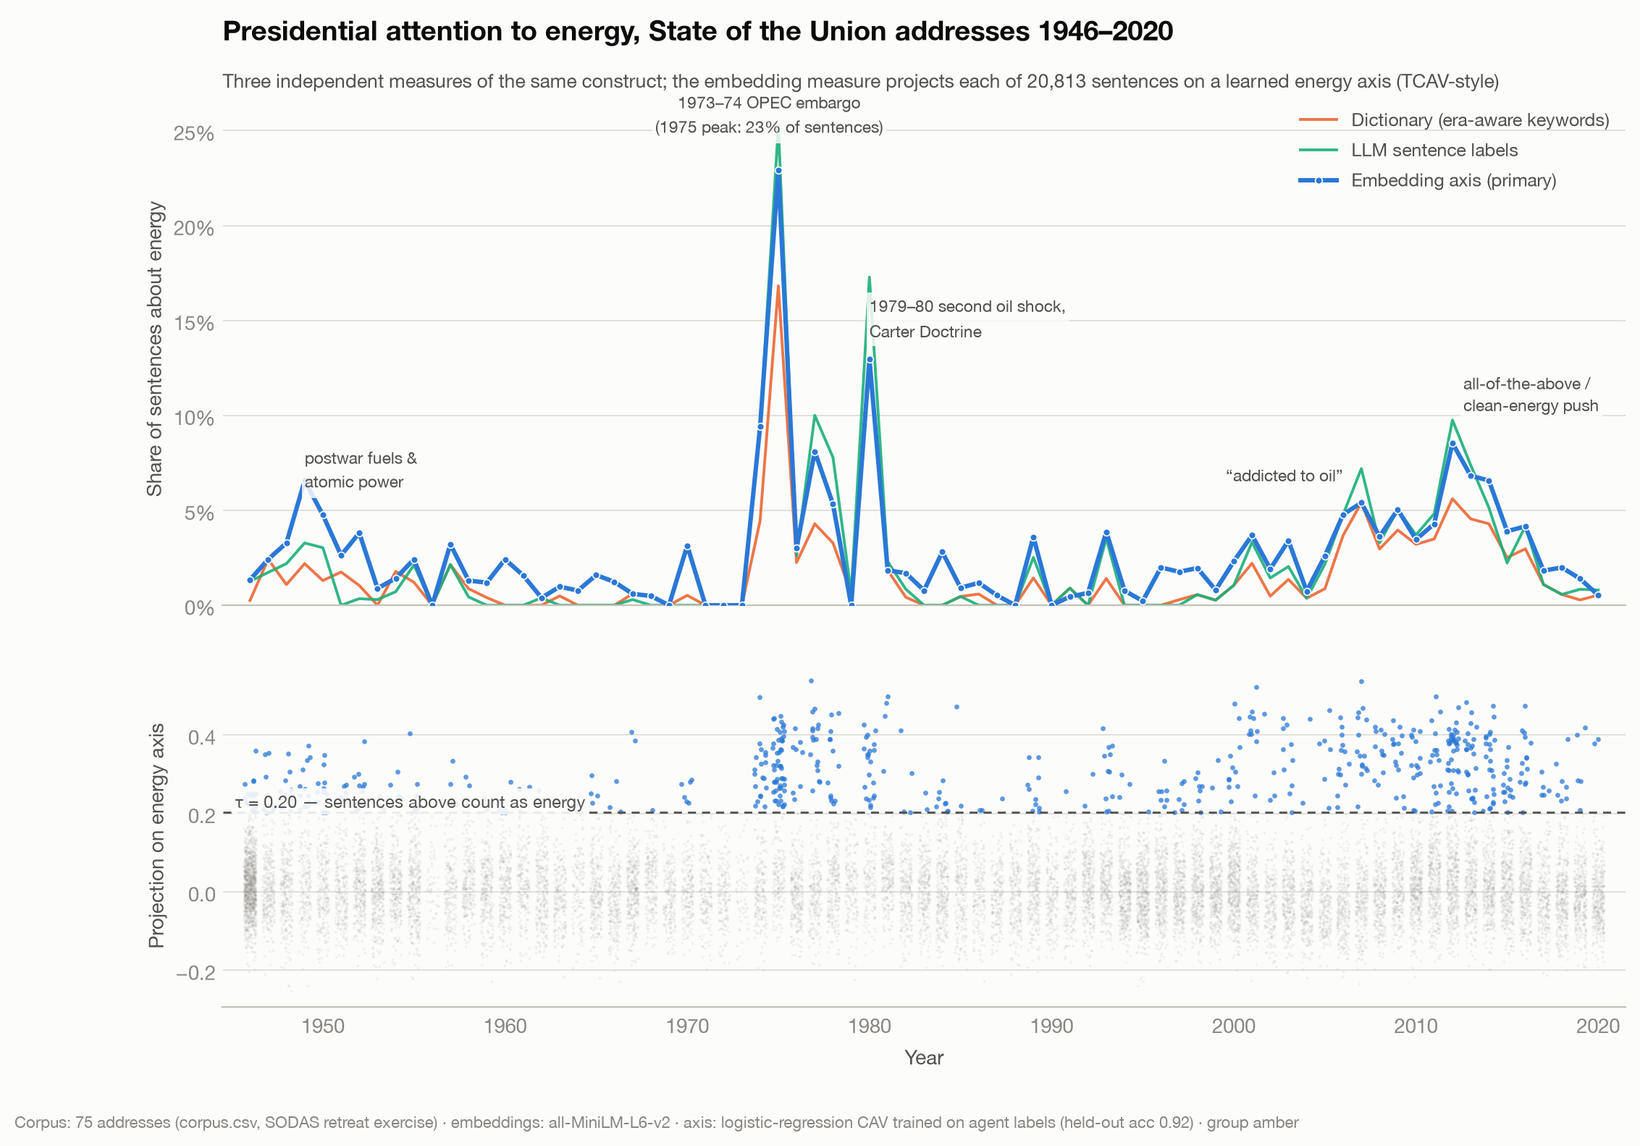
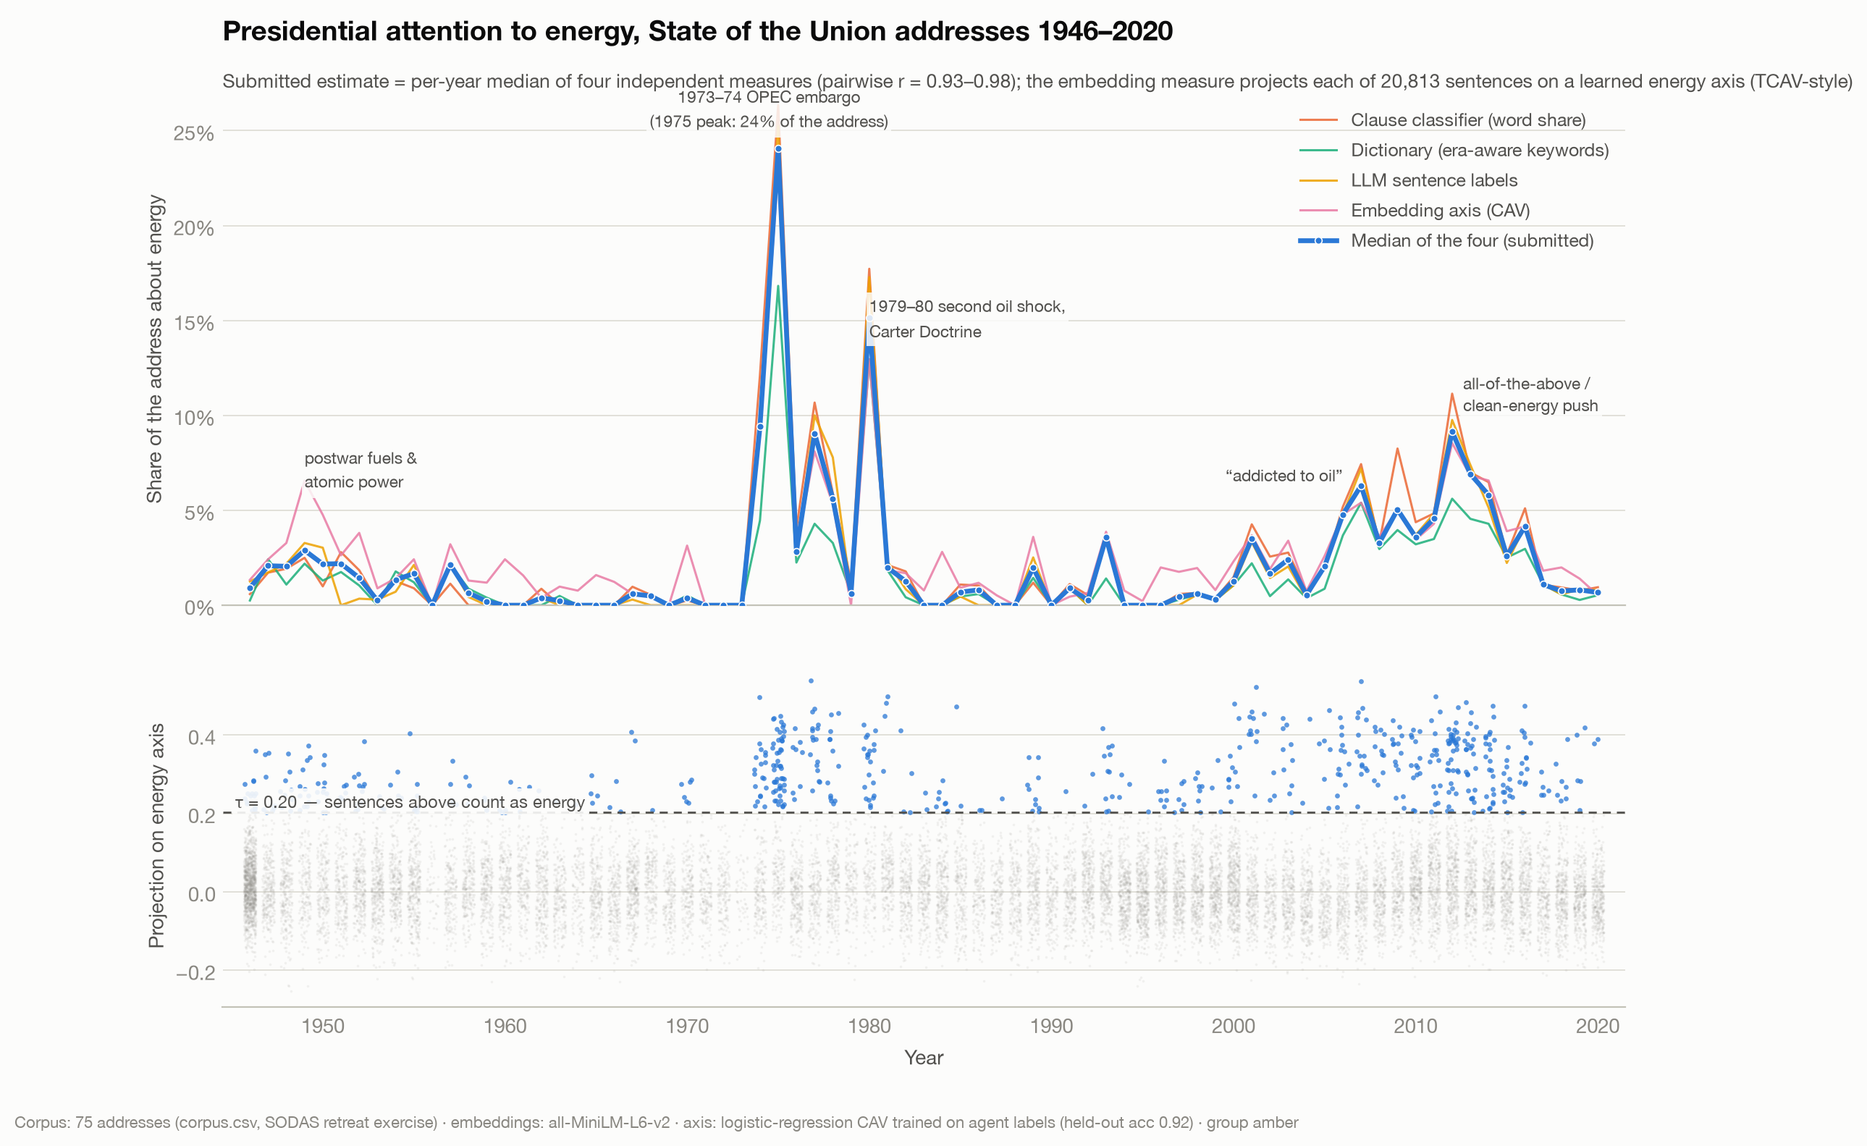
Group amber: submit median-of-four ensemble; merge analysis and evaluation

diff --git a/groups/amber/code/make_figure.py b/groups/amber/code/make_figure.py
@@ -17,13 +17,16 @@ S1, S2, S3 = "#2a78d6", "#eb6834", "#1baf7a"  # embedding, dictionary, LLM label
 
 series = list(csv.DictReader(open(os.path.join(W, "embedding_series.csv"))))
 years = [int(r["year"]) for r in series]
-est = [float(r["estimate"]) for r in series]
+emb = [float(r["estimate"]) for r in series]
 dic = {int(r["year"]): float(r["estimate"]) for r in csv.DictReader(open(os.path.join(W, "dictionary_results.csv")))}
+abb = {int(r["year"]): float(r["estimate"]) for r in csv.DictReader(open(os.path.join(W, "abbas", "results.csv")))}
+med = {int(r["year"]): float(r["estimate"]) for r in csv.DictReader(open(os.path.join(W, "median_series.csv")))}
 labels = json.load(open(os.path.join(W, "llm_labels.json")))
 ntot = {}
 for r in csv.DictReader(open(os.path.join(W, "embedding_index.csv"))):
     ntot[int(r["year"])] = ntot.get(int(r["year"]), 0) + 1
 llm = {int(y): len(ids) / ntot[int(y)] for y, ids in labels.items()}
+est = [med[y] for y in years]
 
 scores = list(csv.DictReader(open(os.path.join(W, "embedding_scores.csv"))))
 sy = np.array([int(r["year"]) for r in scores])
@@ -43,17 +46,21 @@ fig.patch.set_facecolor(SURFACE)
 
 # ---- top: annual series ----
 ax1.set_facecolor(SURFACE)
-ax1.plot(sorted(dic), [dic[y] for y in sorted(dic)], lw=1.4, color=S2, alpha=0.9, zorder=2)
+S4, S5 = "#eda100", "#e87ba4"
+ax1.plot(sorted(abb), [abb[y] for y in sorted(abb)], lw=1.1, color=S2, alpha=0.85, zorder=2)
+ax1.plot(sorted(dic), [dic[y] for y in sorted(dic)], lw=1.1, color=S3, alpha=0.85, zorder=2)
 ly = sorted(llm)
-ax1.plot(ly, [llm[y] for y in ly], lw=1.4, color=S3, alpha=0.9, zorder=2)
-ax1.plot(years, est, lw=2.2, color=S1, zorder=3,
+ax1.plot(ly, [llm[y] for y in ly], lw=1.1, color=S4, alpha=0.85, zorder=2)
+ax1.plot(years, emb, lw=1.1, color=S5, alpha=0.85, zorder=2)
+ax1.plot(years, est, lw=2.4, color=S1, zorder=3,
          marker="o", ms=3.5, markerfacecolor=S1, markeredgecolor=SURFACE, markeredgewidth=0.6)
 
-# direct labels for the three series (right edge, staggered) + legend
-ax1.legend(["Dictionary (era-aware keywords)", "LLM sentence labels", "Embedding axis (primary)"],
+ax1.legend(["Clause classifier (word share)", "Dictionary (era-aware keywords)",
+            "LLM sentence labels", "Embedding axis (CAV)",
+            "Median of the four (submitted)"],
            loc="upper right", frameon=False, fontsize=9, labelcolor=INK2)
 
-events = [(1974.5, 0.245, "1973–74 OPEC embargo\n(1975 peak: 23% of sentences)", "center"),
+events = [(1974.5, 0.248, "1973–74 OPEC embargo\n(1975 peak: 24% of the address)", "center"),
           (1980, 0.138, "1979–80 second oil shock,\nCarter Doctrine", "left"),
           (2006, 0.062, "“addicted to oil”", "right"),
           (2012.6, 0.098, "all-of-the-above /\nclean-energy push", "left"),
@@ -62,7 +69,7 @@ for x, y, txt, ha in events:
     ax1.annotate(txt, (x, y), fontsize=8.2, color=INK2, ha=ha, va="bottom", linespacing=1.25,
                  bbox=dict(facecolor=SURFACE, edgecolor="none", alpha=0.85, pad=1.5))
 
-ax1.set_ylabel("Share of sentences about energy", fontsize=10)
+ax1.set_ylabel("Share of the address about energy", fontsize=10)
 ax1.yaxis.set_major_formatter(PercentFormatter(xmax=1, decimals=0))
 ax1.set_ylim(0, 0.27)
 ax1.grid(axis="y", color=GRID, lw=0.7)
@@ -72,8 +79,9 @@ for s in ("top", "right", "left"):
 ax1.tick_params(length=0)
 ax1.set_title("Presidential attention to energy, State of the Union addresses 1946–2020",
               fontsize=13.5, loc="left", pad=26, fontweight="bold")
-ax1.text(0, 1.045, "Three independent measures of the same construct; the embedding measure projects each of 20,813 sentences "
-                   "on a learned energy axis (TCAV-style)", transform=ax1.transAxes, fontsize=9.5, color=INK2, va="top")
+ax1.text(0, 1.045, "Submitted estimate = per-year median of four independent measures (pairwise r = 0.93–0.98); "
+                   "the embedding measure projects each of 20,813 sentences on a learned energy axis (TCAV-style)",
+         transform=ax1.transAxes, fontsize=9.5, color=INK2, va="top")
 
 # ---- bottom: sentence projections (mechanism) ----
 ax2.set_facecolor(SURFACE)

diff --git a/groups/amber/analysis.md b/groups/amber/analysis.md
@@ -2,24 +2,33 @@
 
 ## Definition
 
-Energy attention = the share of a speech's sentences whose primary topic is energy as a fuel-and-power system: supply, production, prices, distribution, security, imports/exports, infrastructure (pipelines, grids, refineries, power plants), conservation/efficiency of energy, civilian nuclear/atomic power, fossil fuels, renewables, clean-energy technology, and energy legislation. Excluded: nuclear weapons and arms control, metaphorical "energy" ("the energy of our people"), generic economy/inflation mentions where fuel is one listed item, environment/climate content that does not name fuels, power, or energy technology, and oil-state geopolitics without an explicit energy stake. Climate content counts only when framed through energy systems, so the construct is applied identically to 1950s "Atoms for Peace" talk and 2010s clean-energy talk.
+Attention to energy = substantive discussion of the production, supply, transformation, distribution, consumption, price, conservation/efficiency, security, or transition of energy as a fuel-and-power system. This includes oil and petroleum, gasoline, natural gas, coal, electricity and grids, hydroelectricity, civilian nuclear/atomic power, solar, wind, renewable and alternative fuels, energy efficiency, and energy-related infrastructure. Geopolitical discussion counts when an energy resource itself is substantively at issue (oil supply, embargoes, import dependence, control of oil resources). Excluded: metaphorical uses of *energy* and *fuel* ("energy and drive", "fuel the flames"); conservation of land/forests/wildlife; generic climate/environment discussion without an energy connection; nuclear weapons, deterrence, proliferation, testing, and arms control. Early atomic references count only when they concern civilian/peaceful power development, not atomic diplomacy — so the construct is applied identically to 1950s "Atoms for Peace" talk and 2010s clean-energy talk.
 
 ## Measurement
 
-Each speech was split into sentences (20,813 across 75 documents). All sentences were embedded with `sentence-transformers/all-MiniLM-L6-v2` (normalized, 384-d). A TCAV-style concept activation vector was learned: coding agents labeled every sentence energy/not-energy under the definition above; an L2-regularized logistic regression (balanced classes, positives + 4× random negatives, 75/25 split) was trained on the embeddings, and its unit-normalized weight vector is the "energy axis" (held-out accuracy 0.92, F1 0.87). Every sentence is projected onto this axis; a threshold τ = 0.202 (best held-out F1) converts projections to binary calls; the annual estimate is the share of sentences above τ — an unsmoothed 0–1 sentence share robust to the 5× variation in address length (the 1946 and 1973 documents are written messages, not speeches).
+**The submitted estimate is the per-year median of four independently constructed measures** of the definition above — a deliberate ensemble: no single codebook produces the submitted number, and we state that explicitly. The four measures, all built on the unmodified `corpus.csv`:
+
+1. **Contextual clause classifier (word share).** Text split at sentence endings and semicolons (semicolon splitting matters: SOTU addresses contain long multi-topic policy lists). A clause is coded energy on high-precision energy-system expressions with contextual disambiguation (weapons-context nuclear excluded; a conservative second pass recovers pipelines/batteries/hydrogen/drilling only adjacent to an already-coded energy clause). Estimate = energy-clause word tokens / document word tokens. Robustness variants (±20-word local window; weakly supervised TF–IDF + logistic regression at 0.85 threshold) correlated 0.992 and 0.984 with it.
+2. **Era-aware dictionary (sentence share).** 20,813 sentences; a keyword lexicon spanning 1946–2020 vocabulary (atomic power → shale) with disambiguation rules: *energy* counts only in energy-NP contexts, nuclear-weapons contexts excluded, metaphorical fuel filtered, embargo/drilling require fuel context.
+3. **Exhaustive LLM sentence labels (sentence share).** Eight parallel coding agents labeled every sentence energy/not-energy under a fixed written codebook (the definition above plus explicit trap rules); estimate = labeled share per year.
+4. **Embedding concept axis (sentence share).** All sentences embedded (MiniLM, 384-d); a TCAV-style concept activation vector (logistic regression on the LLM labels, held-out accuracy 0.92) projects every sentence on an "energy axis"; estimate = share above the best-F1 threshold τ = 0.20.
+
+The median of the four (for four series, the mean of the middle two) is robust to any single method's idiosyncrasies, stays in [0, 1], and is honestly described as *the consensus of four measures*. It correlates Pearson 0.97–0.99 (Spearman 0.85–0.96) with each input series. Estimates are unsmoothed.
+
+**Unit caveat, stated openly:** measure 1 is a word-token share while measures 2–4 are sentence shares. The two units track each other closely here (pairwise Pearson 0.95–0.98), and the median is dominated by whichever measures agree in a given year, but the submitted series should be read as "share of the address devoted to energy," not as a count of either unit exactly.
 
 ## Agent workflow
 
-The group's coding agent (Claude Code) first ran a five-agent panel from different disciplines (political science, computational linguistics, statistics, ML engineering, energy history) to converge on the construct and design, then: (1) segmented the corpus and built an era-aware keyword dictionary with disambiguation rules (energy-NP rule, weapons exclusion, metaphor filters); (2) fanned out 8 parallel labeling agents, each labeling one era of sentences under a fixed written codebook (the definition above plus explicit trap rules: nuclear weapons = 0, "energy of our people" = 0, climate-without-energy = 0, passing mentions = 0); (3) embedded the sentences and trained the CAV on those labels. Group members intervened to: choose the construct boundary (energy-systems framing of climate), pivot the primary method to the embedding axis, choose the compute host, and cancel/relaunch one labeling batch. All estimates come from the pipeline; no per-year manual adjustments were made.
+Two coding-agent tracks ran independently and were merged. Track A (clause classifier): the agent inspected corpus structure and terminology, implemented three estimators, compared them, and audited ambiguous classifications; consequential rules were made explicit rather than letting the agent assign unexplained percentages. Track B: a five-discipline agent panel (political science, computational linguistics, statistics, ML engineering, energy history) converged on the construct and design; agents then built the dictionary, fanned out to label all 20,813 sentences under the fixed codebook, and trained the embedding axis on those labels. Group members intervened to: set the construct boundary (energy-systems framing of climate; civilian vs weapons nuclear), choose sentence/clause units and share denominators, fix segmentation errors surfaced by inspection (a 1991 multi-topic list overcounted by naive sentence splitting), select the ensemble-median as the submitted estimate, and merge the two tracks' documentation. Revisions were driven by observed classification errors, never by forcing the series toward an expected shape.
 
 ## Checks
 
-Three independent series were compared: embedding-axis, dictionary, and raw LLM-label shares — Pearson r = 0.94 (dictionary) and 0.96 (LLM labels), Spearman 0.83/0.82. Face-validity checks all pass: 1975 is the maximum (oil-crisis aftermath), 1980 ≫ 1979 (Carter's 1979 energy rhetoric was not in the SOTU), Reagan mean ≪ Carter mean, a 2009–2014 clean-energy plateau, and a near-zero 1960s floor.
+Convergent validity: all pairwise correlations among the four series are Pearson 0.93–0.98; the median correlates 0.97–0.99 with each. Face validity: 1975 is the maximum (0.241); 1980 (0.151) ≫ 1979 (0.006 — Carter's 1979 energy rhetoric was not in the January SOTU); Reagan-era mean (0.004) ≪ Carter-era mean (0.071); a 2009–2014 clean-energy plateau (2012 = 0.091); near-zero 1960s floor. Manual audits: ~80 ambiguous clauses spot-checked in track A; disagreement sentences read in track B. As an external post-estimation sanity check only (never used to fit anything), the series was compared against CPI-deflated real oil prices and oil-price inflation. The embedding analysis also localized energy talk in semantic space (see `figure_maps.png`): a large "energy as economics & technology" cluster and a distinct "energy as security" pocket (atomic diplomacy 1946–55, oil dependence) sitting inside the Cold War / war regions.
 
 ## Important choices
 
-(1) Sentence share as the estimand — proportions, not counts, make written and spoken addresses comparable. (2) The energy-systems boundary for climate content — a broader "energy + climate" definition would roughly double post-2009 estimates. (3) Training the axis on agent labels rather than hand-picked anchor words — this makes the measure context-aware but inherits any systematic labeling bias. (4) Threshold τ by best F1 — a lower τ raises all levels, mostly uniformly.
+(1) Submitting the four-measure median rather than one method — trading a single transparent codebook for robustness, and saying so. (2) Share denominators (words or sentences) rather than raw counts, making written and spoken addresses comparable. (3) Clause/sentence units with semicolon splitting rather than paragraphs. (4) Precision over recall for ambiguous terms; explicit energy connection required for conservation, climate, and ambiguous technologies. (5) Counting civilian nuclear power while excluding weapons/arms control — the rule that most affects 1946–1960. (6) Including energy-motivated security discussion (embargoes, oil dependence).
 
 ## Limitations
 
-The measure disagrees most with keyword methods before 1960: the embedding axis scores postwar fuels-management and power-development content (dams, coal supply, atomic power) higher than keyword approaches, so late-1940s estimates (0.03–0.09) are the most uncertain. 1979's estimate of 0.000 reflects the actual January 1979 SOTU text, not missing data. Sentence segmentation of the two long written messages is imperfect. No human gold-standard coding was done within the session's time budget; validation rests on inter-method agreement and historical face validity.
+No hand-coded gold standard exists; validation rests on inter-method agreement, face validity, and limited manual audits. The methods disagree most before 1960, where the embedding axis reads postwar fuels/power-development content higher than rule-based methods — early-period estimates are the least certain. The ensemble median inherits a mixed estimand (word vs sentence shares) and cannot be reproduced from any single documented rule set; users wanting a single-codebook series should use the clause measure or the LLM-label series, both included in `code/`. Rule-based components can miss indirect discussion using no recognizable energy vocabulary; model-based components can encode opaque boundary decisions. The corpus mixes spoken addresses with two much longer written messages (1946, 1973); normalization handles length but not genre.

diff --git a/groups/amber/evaluation.md b/groups/amber/evaluation.md
@@ -1,19 +1,17 @@
 # Amber: Evaluation of the Coding Agent
 
-*(Drafted by the coding agent from the session record; judgment lines are the group's to edit — marked [group].)*
-
 ## Advantages
 
-Speed and scale: within one ~45-minute session the agent segmented 20,813 sentences, produced three independent measures (era-aware dictionary, exhaustive LLM sentence labeling via 8 parallel sub-agents, and an embedding-based concept axis), cross-validated them, and produced the deliverables. Exhaustive labeling of every sentence — normally the cost bottleneck that forces sampling — was trivial. The agent also surfaced substantive knowledge the group would have needed a literature review for: the Comparative Agendas Project boundary rules, the fact that ~40% of pre-1971 "energy" tokens are metaphorical, and that Carter's famous 1979 energy rhetoric was not in the January 1979 SOTU (so the 1979 dip is genuine, not a miss).
+The agents made it possible, within one retreat session, to inspect all 75 documents, identify historically changing terminology, implement reproducible preprocessing, and build and cross-validate **four** independent measures — including exhaustive labeling of all 20,813 sentences, which is normally the cost bottleneck that forces sampling. They were especially useful for finding technical problems that are easy to miss manually: very long semicolon-separated policy lists, 5× document-length differences, ambiguous uses of *nuclear*, *energy*, *conservation*, and *fuel*, and malformed contextual matches. They also surfaced substantive knowledge on demand — Comparative Agendas Project boundary rules, the fact that ~40% of pre-1971 "energy" tokens are metaphorical, and that Carter's famous 1979 energy rhetoric was not in the January 1979 SOTU (so the 1979 dip is genuine). Iteration between substantive reasoning and implementation was fast: a conceptual distinction (civilian nuclear power vs weapons) became an explicit rule, all 75 years reran in minutes, and alternative methods could be compared immediately. Robustness checks, figures, and format validation were essentially free.
 
 ## Disadvantages
 
-Transparency shifts from code to prompts: the dictionary is fully inspectable, but the LLM labels depend on a rubric applied by a model whose internal decisions are not auditable, and the embedding axis adds a second opaque layer (a 384-dimensional representation). Reproducibility is weaker than classical code — rerunning label agents can produce slightly different label sets. The methods visibly disagree in the late 1940s–1950s (embedding reads postwar fuels/power-development content higher than keyword methods), and adjudicating who is right still requires a human reading the actual sentences.
+The agent can make methodological choices look more objective than they are: what counts as energy is a construct-validity decision, not a coding detail, and an agent-generated dictionary, classifier, or prompt can silently encode questionable boundaries. Flexible methods produce convincing but wrong results — the TF–IDF robustness classifier treated "energy and drive" and nuclear-institutional language as energy attention, and the embedding axis reads the 1940s–50s higher than every rule-based method, a divergence a human still has to adjudicate by reading sentences. Transparency also migrates from inspectable code into prompts and model weights: the dictionary is fully auditable, the LLM labels and concept axis are not. Speed cuts both ways — more can be tried, but the number of hidden analytical choices grows just as fast (an early sentence-based method overcounted a 1991 multi-topic list; without inspection that error would have survived).
 
 ## Oversight and trust
 
-Human judgment was required for every consequential definition: the construct boundary (climate counts only when framed through energy systems), the estimand (sentence share), the choice of primary method, and the decision not to adjust any individual year. Verification relied on checks a human specified: inter-method correlations (r = 0.94–0.96), a historical face-validity checklist (1975 maximum, 1980 ≫ 1979, Reagan ≪ Carter, 2009–14 plateau), and spot-reading disagreement sentences. [group] We would not trust unaudited single-method output — particularly the pre-1960 estimates and any borderline construct calls — without reading samples of the classified sentences ourselves.
+Human judgment was most necessary for the construct definition — whether oil geopolitics, fuel taxes, civilian atomic power, or generic conservation belong in the concept — and for every merge decision, including selecting the ensemble median as the submitted estimate. We would not trust an opaque per-speech percentage, an unsupervised topic label, or an unaudited LLM/classifier series as a final research measure. We trust the agents for deterministic preprocessing, applying an agreed rule consistently at scale, robustness analyses, diagnostics, and schema checks — provided code and consequential rules remain inspectable. The convergence of four independently built measures (pairwise r = 0.93–0.98) is itself the strongest trust evidence we have; the pre-1960 period, where they diverge, is exactly where we trust the numbers least.
 
 ## Overall assessment
 
-[group draft] We would use a coding agent again for: corpus mechanics (segmentation, pipelines), exhaustive first-pass annotation, generating competing measurement designs, and stress-testing a measure against historical priors. We would keep humans in charge of: the construct definition, the choice among diverging methods, and final validation — the agent made the measurement multiverse cheap to explore, but choosing a defensible branch within it remained the group's job.
+We would use coding agents again for corpus inspection, preprocessing, implementing transparent measures, exhaustive first-pass annotation, generating alternative specifications, diagnostics, figures, and documentation — and for cheaply exploring the measurement multiverse this exercise is about. We would not delegate the substantive definition of the construct, the final judgment on ambiguous categories, the choice among diverging methods, or the interpretation of historical trends. The productive division of labor: humans define and audit the measurement concept; agents implement it consistently, at scale, and expose its sensitivity to alternative reasonable choices.
